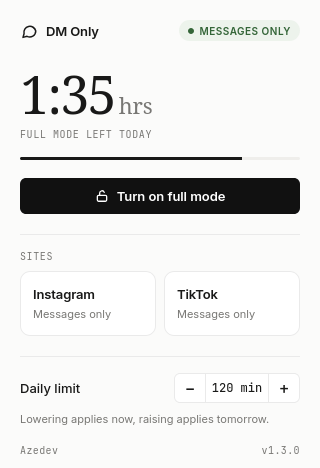
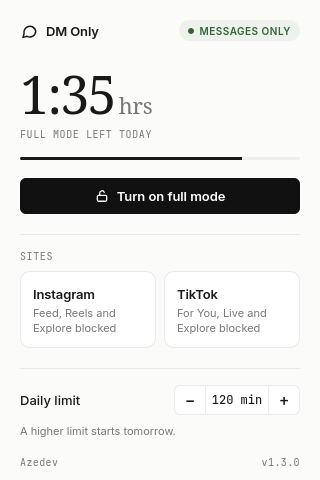
Plain-language pass on the extension UI copy
- Site cards say what is blocked instead of repeating the mode
- Limit note states only the exception (raising starts tomorrow)
- Full-mode hint names when time is counted

Azedev — Yusif Ezizov (https://www.azedev.com)

diff --git a/extension/popup.html b/extension/popup.html
@@ -122,7 +122,7 @@
       background: var(--surface);
     }
     .site b { display: block; color: var(--ink); font-weight: 600; letter-spacing: -0.01em; }
-    .site span { font-size: 11px; color: var(--muted); }
+    .site span { display: block; margin-top: 2px; font-size: 11px; line-height: 1.35; color: var(--muted); }
 
     .limit { display: flex; align-items: center; justify-content: space-between; }
     .limit-name { color: var(--ink); font-weight: 500; }
@@ -195,8 +195,8 @@
     <section class="rise" style="--i:3">
       <div class="label">Sites</div>
       <div class="sites">
-        <div class="site"><b>Instagram</b><span id="s-ig">Messages only</span></div>
-        <div class="site"><b>TikTok</b><span id="s-tt">Messages only</span></div>
+        <div class="site"><b>Instagram</b><span id="s-ig">Feed, Reels and Explore blocked</span></div>
+        <div class="site"><b>TikTok</b><span id="s-tt">For You, Live and Explore blocked</span></div>
       </div>
     </section>
 
@@ -209,7 +209,7 @@
           <button class="step" id="plus" aria-label="Increase by 15 minutes">+</button>
         </div>
       </div>
-      <div class="note" id="note">Lowering applies now, raising applies tomorrow.</div>
+      <div class="note" id="note">A higher limit starts tomorrow.</div>
     </section>
 
     <footer class="rise" style="--i:5">

diff --git a/extension/popup.js b/extension/popup.js
@@ -36,7 +36,9 @@
 
     // Hero
     $("time").innerHTML = renderTime(rem);
-    $("meta").textContent = full ? "Full mode on · time is counting" : "Full mode left today";
+    $("meta").textContent = full
+      ? "Counts only while the tab is active"
+      : "Full mode left today";
     $("progress").style.transform = `scaleX(${total > 0 ? rem / total : 0})`;
 
     // Primary action
@@ -50,8 +52,8 @@
         : `<span>Available again tomorrow</span>`;
 
     // Site statuses
-    $("s-ig").textContent = full ? "Fully open" : "Messages only";
-    $("s-tt").textContent = full ? "Fully open" : "Messages only";
+    $("s-ig").textContent = full ? "All pages open" : "Feed, Reels and Explore blocked";
+    $("s-tt").textContent = full ? "All pages open" : "For You, Live and Explore blocked";
 
     // Limit stepper
     $("limit").textContent = `${s.dailyLimitMin} min`;
@@ -62,10 +64,10 @@
     const note = $("note");
     if (s.pendingLimitMin != null) {
       note.className = "note pending";
-      note.textContent = `Limit becomes ${s.pendingLimitMin} min tomorrow.`;
+      note.textContent = `Tomorrow's limit: ${s.pendingLimitMin} min`;
     } else {
       note.className = "note";
-      note.textContent = "Lowering applies now, raising applies tomorrow.";
+      note.textContent = "A higher limit starts tomorrow.";
     }
   }
 
